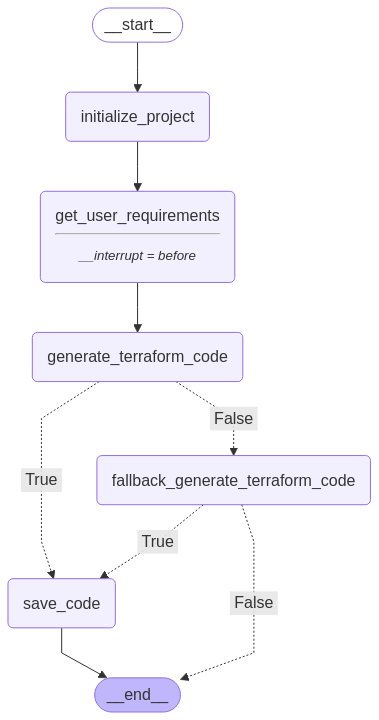
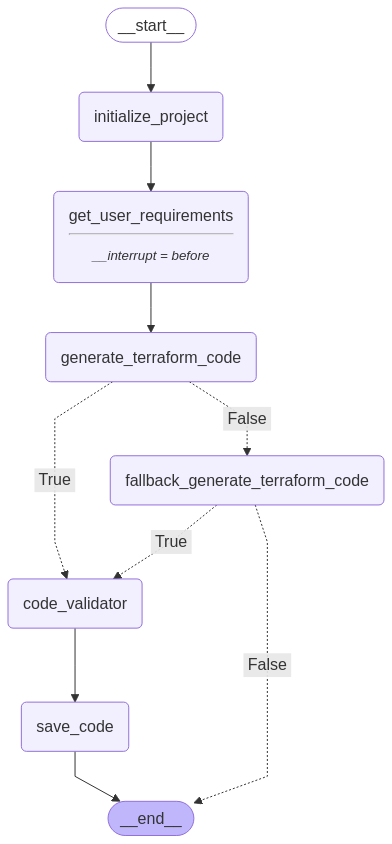
Code validator node. Implementation remaining

diff --git a/src/infra_genie/graph/graph_builder.py b/src/infra_genie/graph/graph_builder.py
@@ -6,6 +6,7 @@ from src.infra_genie.nodes.code_generator_node import CodeGeneratorNode
 from src.infra_genie.nodes.fallback_node import FallbackNode
 from src.infra_genie.nodes.project_node import ProjectNode
 from src.infra_genie.nodes.code_process_node import ProcessCodeNode
+from src.infra_genie.nodes.code_validator_node import CodeValidatorNode
 
     
 class GraphBuilder:
@@ -40,12 +41,14 @@ class GraphBuilder:
         self.code_generation_node = CodeGeneratorNode(self.llm)
         self.fallback_node = FallbackNode(self.llm)
         self.process_code_node = ProcessCodeNode(self.llm)
+        self.code_validator_node = CodeValidatorNode(self.llm)
         
         # Add nodes
         self.graph_builder.add_node("initialize_project", self.project_node.initialize_project)
         self.graph_builder.add_node("get_user_requirements", self.project_node.get_user_requirements)
         self.graph_builder.add_node("generate_terraform_code", self.code_generation_node.generate_terraform_code)
         self.graph_builder.add_node("fallback_generate_terraform_code", self.fallback_node.fallback_generate_terraform_code)
+        self.graph_builder.add_node("code_validator", self.code_validator_node.validate_terraform_code)
         self.graph_builder.add_node("save_code", self.process_code_node.save_terraform_files)
 
         ## Edges
@@ -55,16 +58,16 @@ class GraphBuilder:
         self.graph_builder.add_conditional_edges(
             "generate_terraform_code",
             self.code_generation_node.is_code_generated,
-            {True: "save_code", False: "fallback_generate_terraform_code"}
+            {True: "code_validator", False: "fallback_generate_terraform_code"}
         )
         self.graph_builder.add_conditional_edges(
             "fallback_generate_terraform_code",
             self.code_generation_node.is_code_generated,
-            {True: "save_code", False: END}
+            {True: "code_validator", False: END}
         )
         
+        self.graph_builder.add_edge("code_validator","save_code")
         self.graph_builder.add_edge("save_code",END)
-        
     
          
         

diff --git a/src/infra_genie/nodes/code_validator_node.py b/src/infra_genie/nodes/code_validator_node.py
@@ -1,0 +1,16 @@
+from src.infra_genie.state.infra_genie_state import InfraGenieState
+from src.infra_genie.utils import constants as const
+import opik
+
+class CodeValidatorNode:
+    
+    def __init__(self, llm):
+        self.llm = llm
+        
+    @opik.track
+    def validate_terraform_code(self, state: InfraGenieState):
+        """
+            Validates the generated Terraform code
+        """
+        state.next_node = const.SAVE_CODE
+        return state
